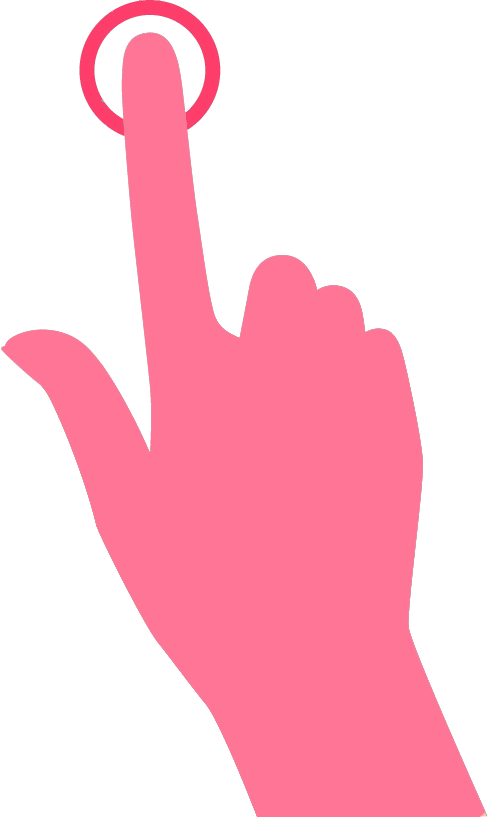
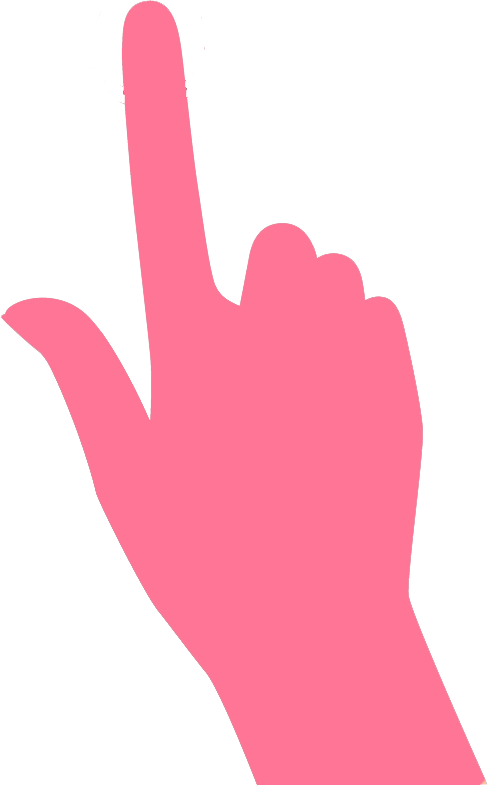
changing trial componentDidUpdate setup

diff --git a/client/src/components/experiment/Guess.js b/client/src/components/experiment/Guess.js
@@ -4,7 +4,6 @@ import * as experimentActionCreators from "../../actions/experiment";
 import { bindActionCreators } from "redux";
 import "./trial.css";
 import "./guess.css";
-import makeGuessAudio from "../../audio/bell.mp3";
 import confirmGuessAudio from "../../audio/bell.mp3";
 import confirmTopGuessAudio from "../../audio/bell.mp3";
 import guessAgainAudio from "../../audio/bell.mp3";
@@ -21,13 +20,6 @@ class Guess extends Component {
     };
   }
 
-  componentDidMount() {
-    setTimeout(function() {
-      document.getElementById("makeGuessAudio").play();
-      console.log("makeGuessAudio");
-    }, 1000);
-  }
-
   onClick = e => {
     if (e.target.value === "yes") {
       // successfully made guess, need to save into redux state and move on
@@ -36,10 +28,8 @@ class Guess extends Component {
       this.setState({ guessHeight: 0, gavePotentialGuess: false });
     } else {
       this.setState({ guessHeight: 0, gavePotentialGuess: false });
-      setTimeout(function() {
-        document.getElementById("guessAgainAudio").play();
-        console.log("guessAgainAudio");
-      }, 1000);
+      document.getElementById("guessAgainAudio").play();
+      console.log("guessAgainAudio");
     }
   };
 
@@ -91,17 +81,13 @@ class Guess extends Component {
 
     if (this.state.gavePotentialGuess) {
       if (this.state.guessHeight < 97) {
-        setTimeout(function() {
-          document.getElementById("confirmGuessAudio").play();
-          console.log("confirmGuessAudio");
-        }, 1000);
+        document.getElementById("confirmGuessAudio").play();
+        console.log("confirmGuessAudio");
         return this.renderConfirmButtons();
       } else {
         // confirm that subject guessed at the top of the tree
-        setTimeout(function() {
-          document.getElementById("confirmTopGuessAudio").play();
-          console.log("confirmTopGuessAudio");
-        }, 1000);
+        document.getElementById("confirmTopGuessAudio").play();
+        console.log("confirmTopGuessAudio");
         return this.renderConfirmButtons();
       }
     }
@@ -122,9 +108,6 @@ class Guess extends Component {
       // render slider on tree to allow subject to guess
       return (
         <div className="div-guess">
-          <audio id="makeGuessAudio">
-            <source src={makeGuessAudio} type="audio/mpeg" />
-          </audio>
           <div
             className="div-guess-slider"
             onClick={this.onGuess}

diff --git a/client/src/components/experiment/Trial.js b/client/src/components/experiment/Trial.js
@@ -60,23 +60,18 @@ class Trial extends Component {
     const { guesses, trial, eggFallPercentage, treeChoice } = this.props;
     if (!this.state.hasGuessed && trial === guesses.length) {
       this.setState({ hasGuessed: true });
-      setTimeout(function() {
-        document.getElementById("startTrialAudio").play();
-        console.log("startTrialAudio");
-      }, 1000);
+      document.getElementById("startTrialAudio").play();
+      console.log("startTrialAudio");
     }
 
     if (this.state.eggFalling && !this.state.eggFell) {
-      setTimeout(function() {
-        document.getElementById("markTrialAudio").play();
-        console.log("markTrialAudio");
-      }, 1000);
+      document.getElementById("markTrialAudio").play();
+      console.log("markTrialAudio");
 
       setTimeout(() => {
         // need to remove the egg or else it will make the page longer
         document.getElementById("egg").style.display = "none";
         this.setState({ eggFalling: false, eggFell: true });
-        this.props.completedTrial();
       }, 2000);
 
       if (trial < 4) {
@@ -95,11 +90,11 @@ class Trial extends Component {
             showCongratulations: false
           });
 
-          // in Guess component, the make guess audio is played in componentDidMount
-          // which won't run again for the next trial, so need to start audio here
-          document.getElementById("makeGuessAudio").play();
-          console.log("makeGuessAudio");
+          this.props.completedTrial();
         }, 3000);
+      } else {
+        // just completed 4th trial, need to move to next phase
+        this.props.advancePhase("summary");
       }
     } else if (
       this.state.eggHeight > eggFallPercentage &&
@@ -241,6 +236,9 @@ function mapDispatchToProps(dispatch) {
   return {
     completedTrial: () => {
       experimentDispatchers.completedTrial();
+    },
+    advancePhase: nextPhase => {
+      experimentDispatchers.advancePhase(nextPhase);
     }
   };
 }

diff --git a/client/src/components/experiment/Instruction.js b/client/src/components/experiment/Instruction.js
@@ -35,8 +35,13 @@ class Instruction extends Component {
       });
     }, 1000);
 
+    // point to the right tree
     setTimeout(() => {
-      document.getElementById("hand").style.display = "inline-block";
+      document.getElementById("hand").style.display = "block";
+
+      setTimeout(() => {
+        this.props.advancePhase("trials");
+      }, 1000);
     }, 3000);
   }
 
@@ -55,14 +60,9 @@ class Instruction extends Component {
       String(SCREEN_TO_LADDER_BOTTOM_PERCENT - 100) + "vh"
     );
 
-    // const handHeight = "100px";
-    // // subtract pixels from left edge of hand to index finger
-    // const handLeft = "calc(50% - 20px)";
-    // const handTop = EGG_HEIGHT / 2;
-
     return (
-      <div>
-        <img className="img-hand" src={hand} id="hand" alt="" />
+      <div className="div-absolute">
+        <img className="img-hand img-hand-right" src={hand} id="hand" alt="" />
         <audio id="instructionAudio">
           <source src={instructionAudio} type="audio/mpeg" />
         </audio>
@@ -106,8 +106,8 @@ function mapDispatchToProps(dispatch) {
   );
 
   return {
-    completedTrial: () => {
-      experimentDispatchers.completedTrial();
+    advancePhase: nextPhase => {
+      experimentDispatchers.advancePhase(nextPhase);
     }
   };
 }

diff --git a/client/src/components/experiment/Experiment.js b/client/src/components/experiment/Experiment.js
@@ -10,8 +10,7 @@ import "./experiment.css";
 
 class Experiment extends Component {
   renderExperiment() {
-    const { condition, phase, trial, treeChoice } = this.props;
-    console.log("phase = ", phase);
+    const { phase } = this.props;
     switch (phase) {
       case "introduction":
         return <Introduction />;
@@ -23,6 +22,7 @@ class Experiment extends Component {
         return <Instruction />;
         break;
       case "trials":
+        const { condition, trial, treeChoice } = this.props;
         let eggFallPercentage;
         if (condition === 1) {
           eggFallPercentage = 80;
@@ -72,7 +72,7 @@ function mapStateToProps(state) {
   return {
     condition: state.register.condition,
     phase: state.experiment.phase,
-    experiment: state.experiment.experiment,
+    trial: state.experiment.trial,
     treeChoice: state.experiment.treeChoice
   };
 }

diff --git a/client/src/components/experiment/Markers.js b/client/src/components/experiment/Markers.js
@@ -4,6 +4,7 @@ import { connect } from "react-redux";
 // import { bindActionCreators } from "redux";
 import "./markers.css";
 import markTrialAudio from "../../audio/bell.mp3";
+import markFinalTrialAudio from "../../audio/bell.mp3";
 import one from "../../images/numbers/one.png";
 import two from "../../images/numbers/two.png";
 import three from "../../images/numbers/three.png";
@@ -64,6 +65,9 @@ class Markers extends Component {
       <div>
         <audio id="markTrialAudio">
           <source src={markTrialAudio} type="audio/mpeg" />
+        </audio>
+        <audio id="markFinalTrialAudio">
+          <source src={markFinalTrialAudio} type="audio/mpeg" />
         </audio>
         {this.renderMarkers()}
       </div>

diff --git a/client/src/components/experiment/instruction.css b/client/src/components/experiment/instruction.css
@@ -2,15 +2,17 @@
   position: absolute;
 }
 
-.img-egg {
-  display: inline-block;
-  position: relative;
-}
-
 .img-hand {
   position: absolute;
   z-index: 2;
   display: none;
+  height: 100px;
+}
+
+.img-hand-right {
+  left: 50%;
+  top: 50%;
+  transform: rotate(90deg);
 }
 
 @-webkit-keyframes rise {

diff --git a/client/src/reducers/experimentReducer.js b/client/src/reducers/experimentReducer.js
@@ -10,7 +10,7 @@ let cloneObject = object => {
 };
 
 let initialState = {
-  phase: "practice",
+  phase: "trials",
   trial: 1,
   guesses: [],
   treeChoice: ""
